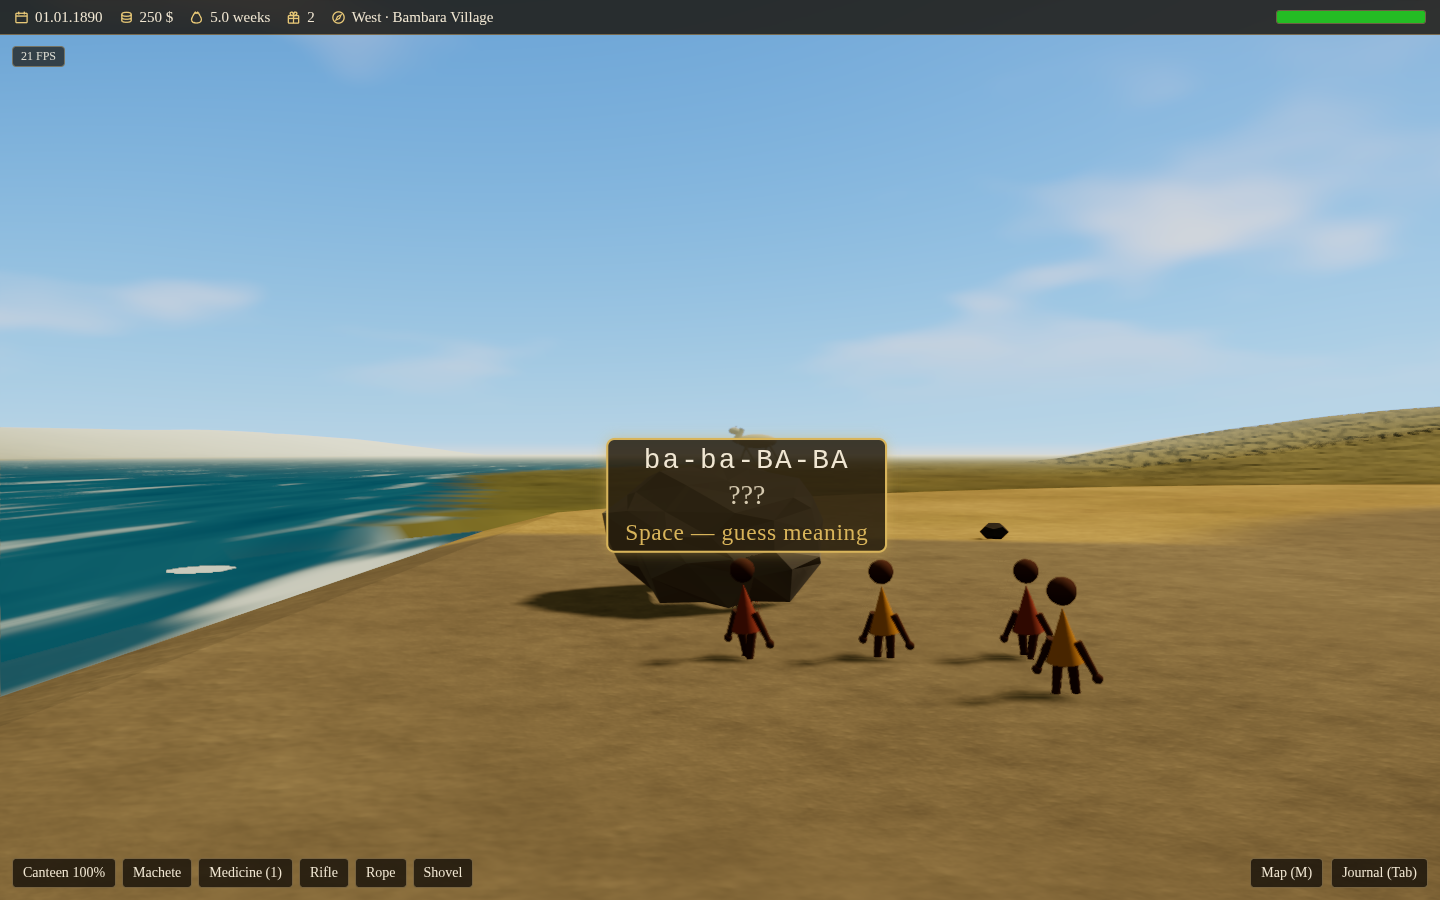
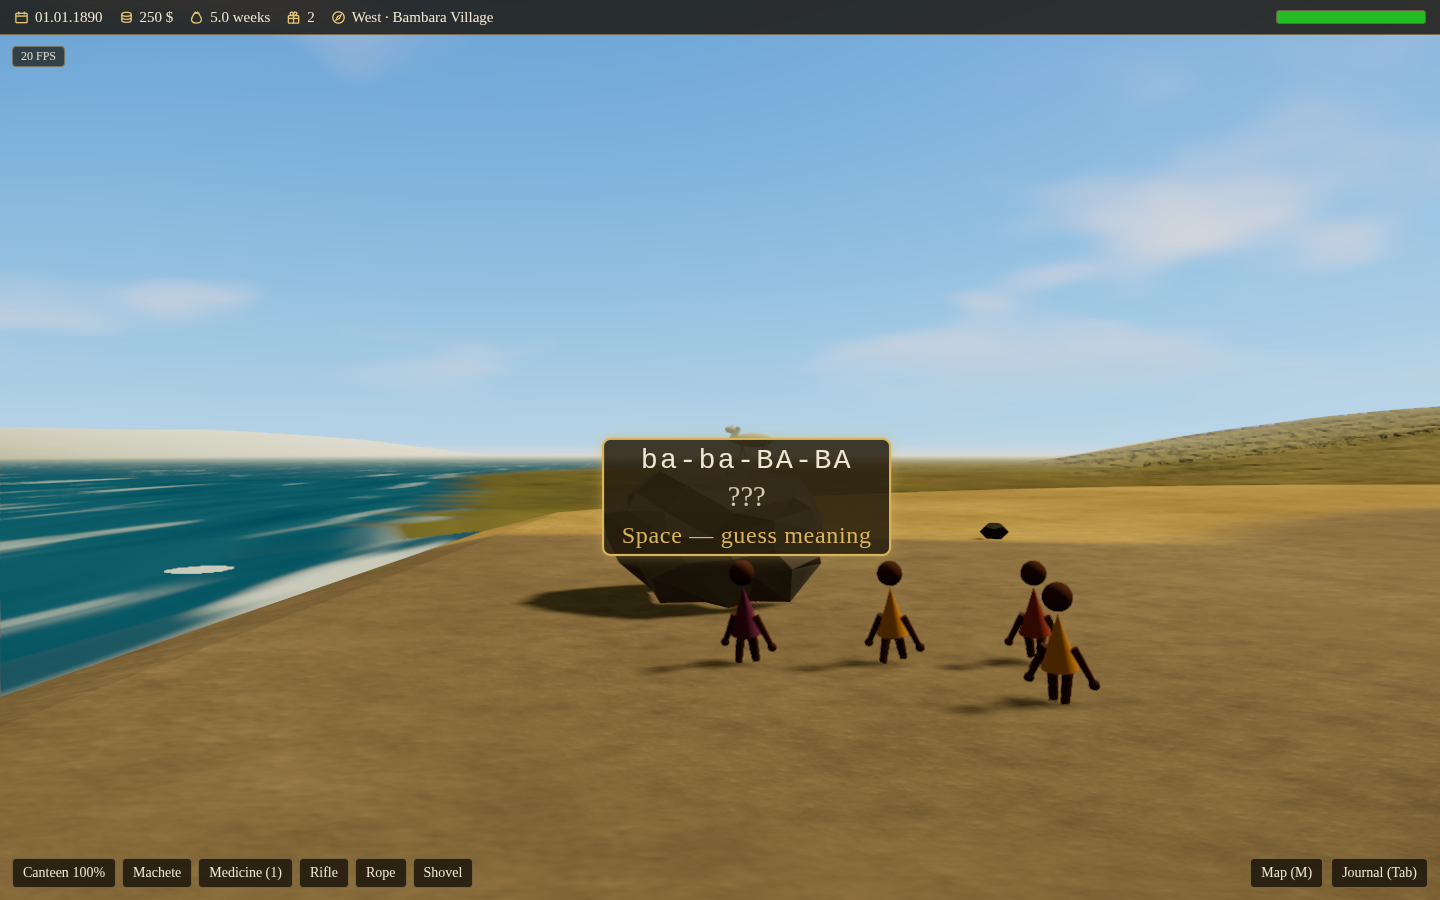
Draw the hand on the stone in the frame the word falls
The tap's last red was one frame wide, and it was in the DRAWING, not in the
round. A figure applies its pose in its own frame callback and React subscribes
a child's callback before its parent's, so a pose written by the scene was drawn
one frame late — and a gesture issued together with a word was therefore drawn
after the word had already fallen.

Measured in the browser rather than argued: the scene now records the tapping
child at the utterance itself, and the reading was 54 cm of arm off the stone
with the shoulder still drawn at rest, on the stone from the next frame on.
That is exactly the 58 cm the section had been failing on at random.

So whoever WRITES a pose applies it too, in the same frame: `applyFigurePose`
is the one place that puts a pose on its pivots, a figure publishes its pivots
to the caller that owns its pose, and it stops applying an owned pose itself
rather than drawing last frame's copy. Both places that write poses — the
children at the bank and the adults at their work — now apply them.

The check no longer depends on luck for the answer. It stopped breaking out of
its sampling loop at the first good reading (one frame of a nine-second hold,
which is why the same code went red and green in turn), reads the hold frame by
frame, prints the shape it read, and asserts the utterance frame from the
scene's own record instead of hoping a sample lands on it.

Measured green on WebGPU: the hand 1.6 cm off the drawn flank in the very frame
[…]

diff --git a/src/scenes/place/PlaceLife.tsx b/src/scenes/place/PlaceLife.tsx
@@ -25,6 +25,7 @@ import {
   type FootPlant,
 } from '../../render/fauna'
 import { CHILD_FIGURE_SCALE, FIGURE_LIMBS, TESSELLATION } from '../../render/figures'
+import { applyFigurePose, type FigureLimbs } from '../../render/figurePose'
 import {
   advanceGesture,
   aimAt,
@@ -240,6 +241,7 @@ function Figure({
   role = 'villager',
   gesture,
   pose,
+  limbs,
   gait,
   handProp,
 }: {
@@ -256,6 +258,10 @@ function Figure({
   gesture?: RefObject<GestureState>
   /** A pose written by the caller each frame; wins over `gesture` when set. */
   pose?: RefObject<FigurePose | null>
+  /** Where to publish this figure's own pivots. A caller that supplies BOTH
+   *  this and `pose` owns the application and applies it itself, in the frame
+   *  it writes it — see `applyFigurePose` (work-order 1065). */
+  limbs?: RefObject<FigureLimbs | null>
   /** Gait phase (rad) driving the leg swing — the caller accumulates the
    *  distance walked, because only it knows this figure's world scale. */
   gait?: RefObject<number>
@@ -286,6 +292,21 @@ function Figure({
   const arms = useRef<Array<THREE.Group | null>>([])
   const legPivots = useRef<Array<THREE.Group | null>>([])
 
+  // The caller that owns the pose is given the pivots to write it onto. The
+  // effect runs once the refs are filled, and the object it publishes is read
+  // every frame, so nothing is allocated per frame.
+  const owned = !!(pose && limbs)
+  // Its OWN pivots, in one object that outlives the frame — `arms.current` is a
+  // stable array, only the trunk arrives later.
+  const selfLimbs = useRef<FigureLimbs>({ arms: arms.current, trunk: null })
+  useEffect(() => {
+    if (!limbs) return
+    limbs.current = { arms: arms.current, trunk: trunk.current }
+    return () => {
+      limbs.current = null
+    }
+  }, [limbs])
+
   useFrame((_, rawDt) => {
     const dt = Math.min(rawDt, 0.1)
     let shown = pose?.current ?? null
@@ -293,15 +314,11 @@ function Figure({
       gesture.current = advanceGesture(gesture.current, dt)
       shown = gesturePose(gesture.current)
     }
-    if (shown) {
-      const left = arms.current[0]
-      const right = arms.current[1]
-      if (left) left.rotation.set(shown.left.pitch, shown.left.yaw, shown.left.roll)
-      if (right) right.rotation.set(shown.right.pitch, shown.right.yaw, shown.right.roll)
-      const t = trunk.current
-      // Lean tips the trunk forward about the hip (+x carries the top to +z, the
-      // figure's front); the turn is the refusal's shake.
-      if (t) t.rotation.set(shown.lean, shown.turn, 0)
+    // An OWNED pose is applied by whoever writes it, in that same frame;
+    // applying last frame's copy here would only draw it one frame stale.
+    if (shown && !owned) {
+      selfLimbs.current.trunk = trunk.current
+      applyFigurePose(selfLimbs.current, shown)
     }
     if (withLegs && gait) {
       const phase = gait.current ?? 0
@@ -853,6 +870,19 @@ function Kids({
   if (gaits.current.length !== count) {
     gaits.current = Array.from({ length: count }, (_, i) => gaits.current[i] ?? { current: 0 })
   }
+  // THE WORD'S OWN FRAME (work-order 1065). Where the DRAWN hand stood in the
+  // very frame the tap was uttered — captured here rather than sampled from
+  // outside, because a sampler reading every second frame catches that one
+  // frame only by luck, and the check then went red or green at random on the
+  // same code.
+  const tapOpening = useRef<{
+    tapper: number
+    x: number
+    y: number
+    z: number
+    drawnPitch: number
+    writtenPitch: number
+  } | null>(null)
   const poses = useRef<Array<RefObject<FigurePose | null>>>([])
   if (poses.current.length !== count) {
     poses.current = Array.from(
@@ -862,6 +892,14 @@ function Kids({
           current: { left: { ...REST_POSE.left }, right: { ...REST_POSE.right }, lean: 0, turn: 0 },
         },
     )
+  }
+  // These children's poses are written HERE, so their pivots are written here
+  // too — a pose left for the figure's own callback is drawn a frame late, and
+  // the tap has to be on the stone in the frame the word falls (work-order
+  // 1065).
+  const limbs = useRef<Array<RefObject<FigureLimbs | null>>>([])
+  if (limbs.current.length !== count) {
+    limbs.current = Array.from({ length: count }, (_, i) => limbs.current[i] ?? { current: null })
   }
 
   useFrame((_, rawDt) => {
@@ -934,6 +972,10 @@ function Kids({
     if (spoken) {
       speakBankUtterance(spoken, children[spoken.speaker], refs.current[spoken.speaker], gestures.current[spoken.speaker])
     }
+    // THE WORD'S OWN FRAME (work-order 1065). The tap is captured below, once
+    // this frame's pose has been written AND applied — that is the picture the
+    // player sees the word fall over, and the frame the whole claim rests on.
+    const openedTouch = import.meta.env.DEV && spoken && spoken.gesture === 'touch' ? spoken.speaker : -1
     const said = game && speech ? stepChildSpeech(speech, view, dt, cfg, speechRand) : null
     if (said) speakSituation(said, children[said.speaker], refs.current[said.speaker], gestures.current[said.speaker])
     children.forEach((c, i) => {
@@ -965,6 +1007,29 @@ function Kids({
       pose.right = crouched ? CROUCH_POSE.right : shown.right
       pose.turn = shown.turn
       pose.lean = crouched ? CROUCH_POSE.lean : c.lean + shown.lean
+      applyFigurePose(limbs.current[i]?.current ?? null, pose)
+      if (i === openedTouch) {
+        g.updateWorldMatrix(true, true)
+        const hands: Array<{ x: number; y: number; z: number; pitch: number }> = []
+        g.traverse((o) => {
+          if (o.name !== 'hand-left' && o.name !== 'hand-right') return
+          const w = new THREE.Vector3()
+          o.getWorldPosition(w)
+          hands.push({ x: w.x, y: w.y, z: w.z, pitch: o.parent ? o.parent.rotation.x : 0 })
+        })
+        // The RAISED hand is the one doing the touching; the other hangs.
+        const best = hands.sort((a, b) => b.y - a.y)[0]
+        tapOpening.current = best
+          ? {
+              tapper: i,
+              x: best.x,
+              y: best.y,
+              z: best.z,
+              drawnPitch: best.pitch,
+              writtenPitch: pose.left.pitch,
+            }
+          : null
+      }
     })
   })
 
@@ -1059,6 +1124,20 @@ function Kids({
       // hanging at the child's side.
       const best = hands.sort((a, b) => Math.abs(a.gap) - Math.abs(b.gap))[0] ?? null
       if (!best) return null
+      // WHAT WAS WRITTEN against what is DRAWN. The pose is written by this
+      // component's frame callback and applied by the figure's own; a reading
+      // that finds the touch pose already written while the drawn hand is still
+      // out at the child's side is a frame of render lag, not a hand that never
+      // arrived (work-order 1065).
+      const written = poses.current[i]?.current ?? null
+      const opening = tapOpening.current
+      const openingGap = opening
+        ? (() => {
+            const b = Math.atan2(opening.x - rock.x, opening.z - rock.z)
+            const r = Math.hypot(opening.x - rock.x, opening.z - rock.z)
+            return r - stage.flank(end, b, opening.y) - FIGURE_LIMBS.handRadius * KID_SCALE
+          })()
+        : null
       return {
             ...best,
             tapper: i,
@@ -1070,6 +1149,25 @@ function Kids({
             end,
             rock: { x: rock.x, z: rock.z },
             gesture: gestures.current[i]?.current?.kind ?? null,
+            // Seconds the gesture has been running, so the swing can be placed
+            // on its own clock rather than on the hold's.
+            gestureAge: gestures.current[i]?.current?.t ?? null,
+            written: written
+              ? { leftPitch: written.left.pitch, rightPitch: written.right.pitch, lean: written.lean }
+              : null,
+            // The word's own frame, measured when it fell rather than sampled
+            // for afterwards.
+            opening: opening ? { ...opening, gap: openingGap } : null,
+            // The shoulder rotations the figure is REALLY drawn with this
+            // frame, read off the hand meshes' own pivots.
+            drawn: (() => {
+              const arms: Array<{ name: string; pitch: number }> = []
+              g.traverse((o) => {
+                if (o.name !== 'hand-left' && o.name !== 'hand-right') return
+                if (o.parent) arms.push({ name: o.name, pitch: o.parent.rotation.x })
+              })
+              return arms
+            })(),
       }
     }
 
@@ -1106,6 +1204,7 @@ function Kids({
             role="child"
             gait={gaits.current[i]}
             pose={poses.current[i]}
+            limbs={limbs.current[i]}
           />
         </group>
       ))}
@@ -2331,6 +2430,12 @@ function ErrandVillagers({
         },
     )
   }
+  // Written here, so applied here — see the children at the bank (work-order
+  // 1065): the dip has to be under the water in the frame the picture takes it.
+  const limbs = useRef<Array<RefObject<FigureLimbs | null>>>([])
+  if (limbs.current.length !== count) {
+    limbs.current = Array.from({ length: count }, (_, i) => limbs.current[i] ?? { current: null })
+  }
   const yaws = useRef<number[]>([])
   if (yaws.current.length !== count) {
     yaws.current = Array.from({ length: count }, (_, i) => yaws.current[i] ?? 0)
@@ -2615,6 +2720,7 @@ function ErrandVillagers({
           pose.turn = shown.turn
         }
       }
+      if (pose) applyFigurePose(limbs.current[i]?.current ?? null, pose)
 
       const g = refs.current[i]
       if (g) {
@@ -2789,6 +2895,7 @@ function ErrandVillagers({
           <Figure
             cloth={cloth[i % cloth.length]}
             pose={poses.current[i]}
+            limbs={limbs.current[i]}
             handProp={
               <>
                 <group

diff --git a/src/render/figurePose.test.ts b/src/render/figurePose.test.ts
@@ -1,0 +1,56 @@
+// The pose has to land on the pivots that carry it, and on the right ones. The
+// mapping used to be inline in the scene, where nothing measured it: a swapped
+// arm or a lean written onto the wrong axis would have posed every figure in
+// the game wrongly and shown up only as a picture nobody could explain.
+
+import { describe, expect, it } from 'vitest'
+import * as THREE from 'three/webgpu'
+import { applyFigurePose, type FigureLimbs } from './figurePose'
+import { REST_POSE, gesturePose, startGesture } from './gesture'
+
+const limbSet = (): FigureLimbs => ({
+  arms: [new THREE.Group(), new THREE.Group()],
+  trunk: new THREE.Group(),
+})
+
+describe('applyFigurePose', () => {
+  it('writes each arm onto its own pivot, angles as stated', () => {
+    const limbs = limbSet()
+    const pose = {
+      left: { pitch: -1.2, yaw: 0.3, roll: 0.1 },
+      right: { pitch: -0.4, yaw: -0.2, roll: -0.5 },
+      lean: 0.5,
+      turn: 0.2,
+    }
+    applyFigurePose(limbs, pose)
+    expect(limbs.arms[0]!.rotation.x).toBeCloseTo(-1.2, 6)
+    expect(limbs.arms[0]!.rotation.y).toBeCloseTo(0.3, 6)
+    expect(limbs.arms[0]!.rotation.z).toBeCloseTo(0.1, 6)
+    expect(limbs.arms[1]!.rotation.x).toBeCloseTo(-0.4, 6)
+    expect(limbs.arms[1]!.rotation.y).toBeCloseTo(-0.2, 6)
+    expect(limbs.arms[1]!.rotation.z).toBeCloseTo(-0.5, 6)
+  })
+
+  it('tips the TRUNK with the lean and turns it with the shake, nothing else', () => {
+    const limbs = limbSet()
+    applyFigurePose(limbs, { ...REST_POSE, lean: 0.5, turn: -0.2 })
+    expect(limbs.trunk!.rotation.x).toBeCloseTo(0.5, 6)
+    expect(limbs.trunk!.rotation.y).toBeCloseTo(-0.2, 6)
+    expect(limbs.trunk!.rotation.z).toBe(0)
+  })
+
+  it('survives the frames before the pivots exist', () => {
+    expect(() => applyFigurePose(null, REST_POSE)).not.toThrow()
+    expect(() => applyFigurePose({ arms: [null, null], trunk: null }, REST_POSE)).not.toThrow()
+  })
+
+  it('puts a TOUCH on the pivots at its very first application (work-order 1065)', () => {
+    // The tap's whole claim is that the hand is on the stone in the frame the
+    // word falls, so the pose the touch begins at must be the posed one — not a
+    // rest pose that grows into it over a blend.
+    const limbs = limbSet()
+    const touch = startGesture('touch', { bearing: 0, elevation: -0.4 }, 1.5)
+    applyFigurePose(limbs, gesturePose(touch))
+    expect(limbs.arms[0]!.rotation.x).not.toBeCloseTo(REST_POSE.left.pitch, 2)
+  })
+})

diff --git a/src/render/figurePose.ts b/src/render/figurePose.ts
@@ -1,0 +1,41 @@
+// Writing a figure's pose onto the pivots that carry it (work-order 1065).
+//
+// `gesture.ts` decides WHAT a figure's arms and trunk do; this is the one place
+// that puts that decision on the objects. It exists as its own module because
+// of WHEN it has to happen: a figure applies its own pose in its own frame
+// callback, and React subscribes a child's callback before its parent's — so a
+// pose written by the parent was drawn one frame late, and a gesture issued
+// together with a word was drawn after the word had fallen. Measured 08.09.2026
+// in the browser: in the frame the tapping child said ROCK its shoulder was
+// still drawn at rest, 54 cm of arm off the stone, and it stood on the stone
+// only from the next frame on. So whoever WRITES a pose applies it too, in the
+// same frame, through this function.
+
+import type * as THREE from 'three/webgpu'
+import type { FigurePose } from './gesture'
+
+/** The pivots a pose moves, published by the figure that owns them. */
+export interface FigureLimbs {
+  /** The two shoulder pivots, the figure's LEFT one first. */
+  arms: Array<THREE.Group | null>
+  /** The trunk that the lean tips and the shake turns. */
+  trunk: THREE.Group | null
+}
+
+/**
+ * Write a pose onto the pivots it moves.
+ *
+ * The arms take their Euler angles as they stand — the pivots are created in
+ * `YXZ` order, which is what makes a bearing apply to an arm that is already
+ * raised. The lean tips the trunk about local X (+x carries its top to +z, the
+ * figure's front) and the shake turns it about local Y; a missing pivot is
+ * skipped rather than throwing, because a figure is drawn before its refs land.
+ */
+export function applyFigurePose(limbs: FigureLimbs | null, shown: FigurePose): void {
+  if (!limbs) return
+  const left = limbs.arms[0]
+  const right = limbs.arms[1]
+  if (left) left.rotation.set(shown.left.pitch, shown.left.yaw, shown.left.roll)
+  if (right) right.rotation.set(shown.right.pitch, shown.right.yaw, shown.right.roll)
+  if (limbs.trunk) limbs.trunk.rotation.set(shown.lean, shown.turn, 0)
+}
